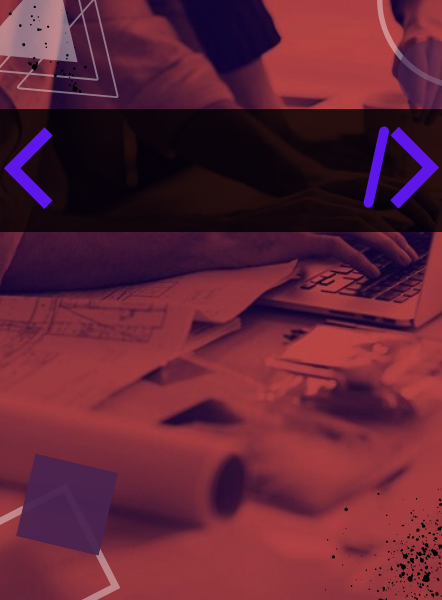
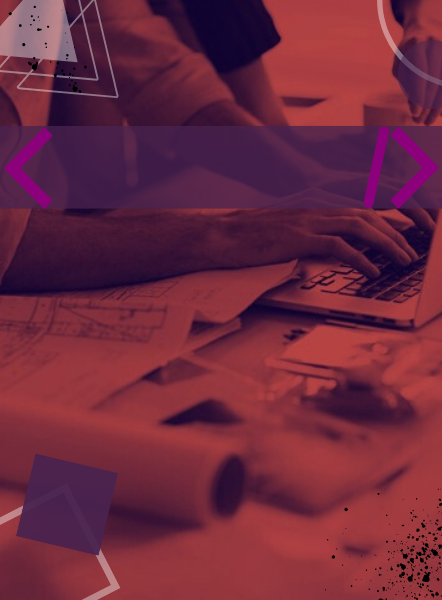
Adicionando novos arquivos de media

Changed region(s): [[0.0, 0.18, 1.0, 0.39]]

diff --git a/css/main.css b/css/main.css
@@ -61,11 +61,22 @@ body {
 .titulos {
    position: absolute;
    font-family: 'Rubik Iso', cursive;
-   text-shadow: 0 0 1px white;
-   font-size: 60px;
-   color: #5E17EB;
-   top: 130px;
+   color: white;
 
+}
+
+.titulo1 {
+   top: 130px;
+   text-shadow: 0 0 20px #ff0000;
+   font-size: 60px;
+   
+}
+
+.titulo2 {
+   top: 130px;
+   text-shadow: 0 0 20px #ff0000;
+   font-size: 60px;
+   
 }
 
 .content {
@@ -82,6 +93,12 @@ body {
 
 .content1 {
    background: url('/media/content1-Hynaell_Website.png') no-repeat;
+   background-size: cover;
+
+}
+
+.content2 {
+   background: url('/media/content2-Hynaell_Website.png') no-repeat;
    background-size: cover;
 
 }

diff --git a/index.html b/index.html
@@ -21,10 +21,10 @@
 
    <div class="page">
       <div class="content content1">
-         <label class="titulos">Projetos</label>
+         <label class="titulos titulo1">Projetos</label>
       </div>
       <div class="content content2">
-
+         <label class="titulos titulo2">Links</label>
       </div>
       <div class="content content3">
 
